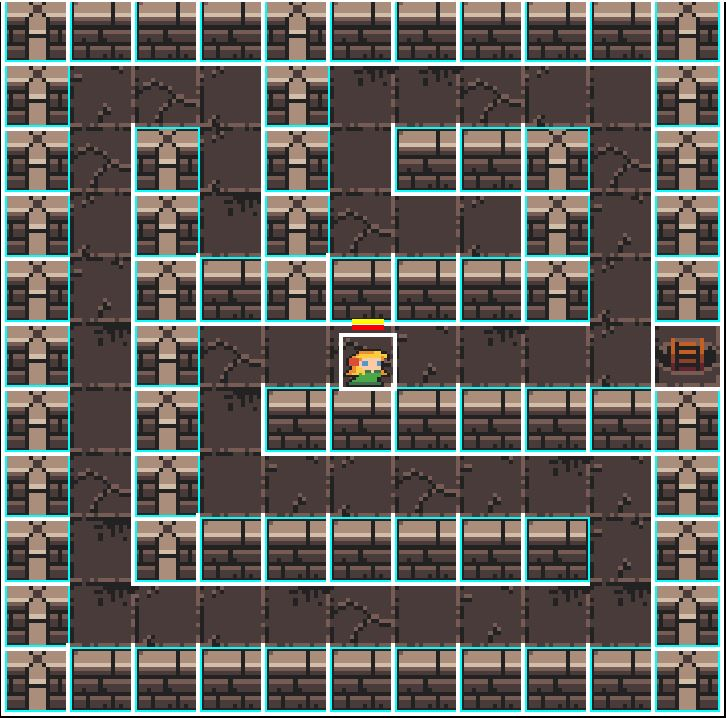
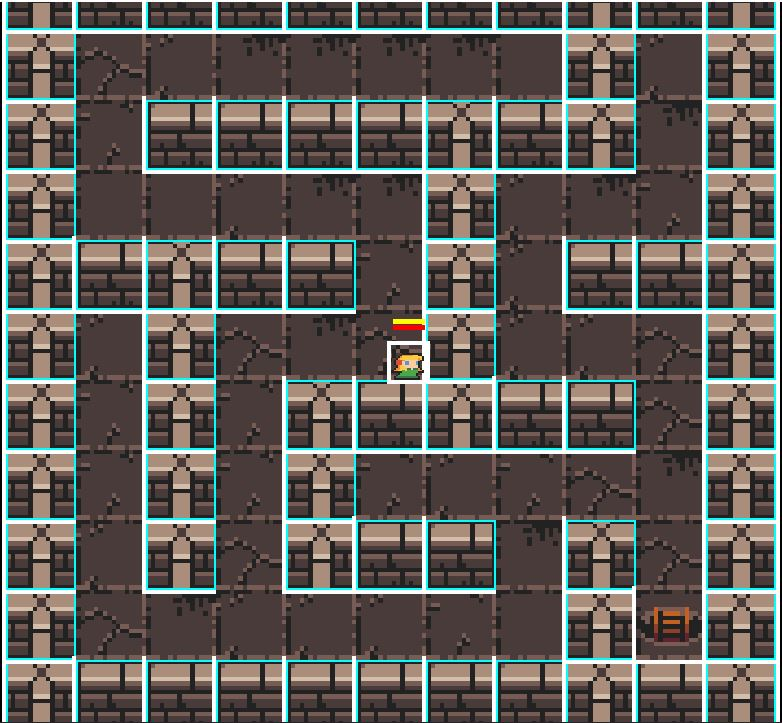
[#4] Reworked Exit to spaw near the border

diff --git a/Roguelike/LabyrinthBuilder.cpp b/Roguelike/LabyrinthBuilder.cpp
@@ -390,17 +390,8 @@ void LabyrinthBuilder::FindAndEmplaceExit() {
     // Try to get most distanced deadEnd
     auto cellNearExit = deadEndsNearEdge.crbegin();
     if (cellNearExit != deadEndsNearEdge.crend()) {
-        // if such deadEnd founded, calculating exitCell on edge of Labyrinth
+        // if such deadEnd founded, set exitCell near the edge of Labyrinth
         auto exitCell = cellNearExit->second;
-        if (exitCell.x == 1) {
-            exitCell.x = 0;
-        } else if (exitCell.x == labyrinthTileWidth - 2) {
-            exitCell.x = labyrinthTileWidth - 1;
-        } else if (exitCell.y == 1) {
-            exitCell.y = 0;
-        } else if (exitCell.y == labyrinthTileHeight - 2) {
-            exitCell.y = labyrinthTileHeight - 1;
-        }
         tileGrid[exitCell.x][exitCell.y] = TileType::Exit;
     } else {
         RandomlyEmplaceExit();
@@ -417,27 +408,28 @@ void LabyrinthBuilder::RandomlyEmplaceExit() {
         // Chosing random edge where to place exitCell
         enum Edge { Up, Right, Down, Left };
         const Edge randomEdge = static_cast<Edge>(std::rand() % 4);
+        // If random cell is Floor, change it to Exit
         switch (randomEdge) {
             case Up:
                 if (tileGrid[xCoordinate][1] == TileType::Floor) {
-                    exitCell = {xCoordinate, 0};
+                    exitCell = {xCoordinate, 1};
                 }
                 break;
             case Down:
                 if (tileGrid[xCoordinate][labyrinthTileHeight - 2] ==
                     TileType::Floor) {
-                    exitCell = {xCoordinate, labyrinthTileHeight - 1};
+                    exitCell = {xCoordinate, labyrinthTileHeight - 2};
                 }
                 break;
             case Left:
                 if (tileGrid[1][yCoordinate] == TileType::Floor) {
-                    exitCell = {0, yCoordinate};
+                    exitCell = {1, yCoordinate};
                 }
                 break;
             case Right:
                 if (tileGrid[labyrinthTileWidth - 2][yCoordinate] ==
                     TileType::Floor) {
-                    exitCell = {labyrinthTileWidth - 1, yCoordinate};
+                    exitCell = {labyrinthTileWidth - 2, yCoordinate};
                 }
                 break;
         }

diff --git a/Roguelike/DeveloperLevel.cpp b/Roguelike/DeveloperLevel.cpp
@@ -27,14 +27,14 @@ void DeveloperLevel::Start() {
         player->GetGameObject()->GetComponent<MaxrEngine::TransformComponent>();
     backgroundMusic = std::make_shared<BackgroundMusic>();
     playerTransform->SetWorldPosition(startCellTransform->GetWorldPosition());
-    /* enemy = std::make_shared<Enemy>();
+    enemy = std::make_shared<Enemy>();
 
     auto* enemyTransform =
         enemy->GetGameObject()->GetComponent<MaxrEngine::TransformComponent>();
     auto exitCell = labyrinth->GetExit();
     auto* exitTransform = exitCell->GetGameObject()
                               ->GetComponent<MaxrEngine::TransformComponent>();
-    enemyTransform->SetWorldPosition(exitTransform->GetWorldPosition());*/
+    enemyTransform->SetWorldPosition(exitTransform->GetWorldPosition());
 }
 
 void DeveloperLevel::Restart() {

diff --git a/Roguelike/LabyrinthExit.cpp b/Roguelike/LabyrinthExit.cpp
@@ -2,6 +2,7 @@
 
 #include "Floor.h"
 #include "GameObject.h"
+#include "RigidBodyComponent.h"
 #include "SpriteColliderComponent.h"
 #include "Vector.h"
 
@@ -12,5 +13,7 @@ LabyrinthExit::LabyrinthExit(MaxrEngine::Vector2Df position, int textureIndex,
     auto exitTrigger =
         gameObject->AddComponent<MaxrEngine::SpriteColliderComponent>();
     exitTrigger->SetTrigger(true);
+    auto rigidBody = gameObject->AddComponent<MaxrEngine::RigidBodyComponent>();
+    rigidBody->SetKinematic(false);
 }
 }  // namespace Roguelike
